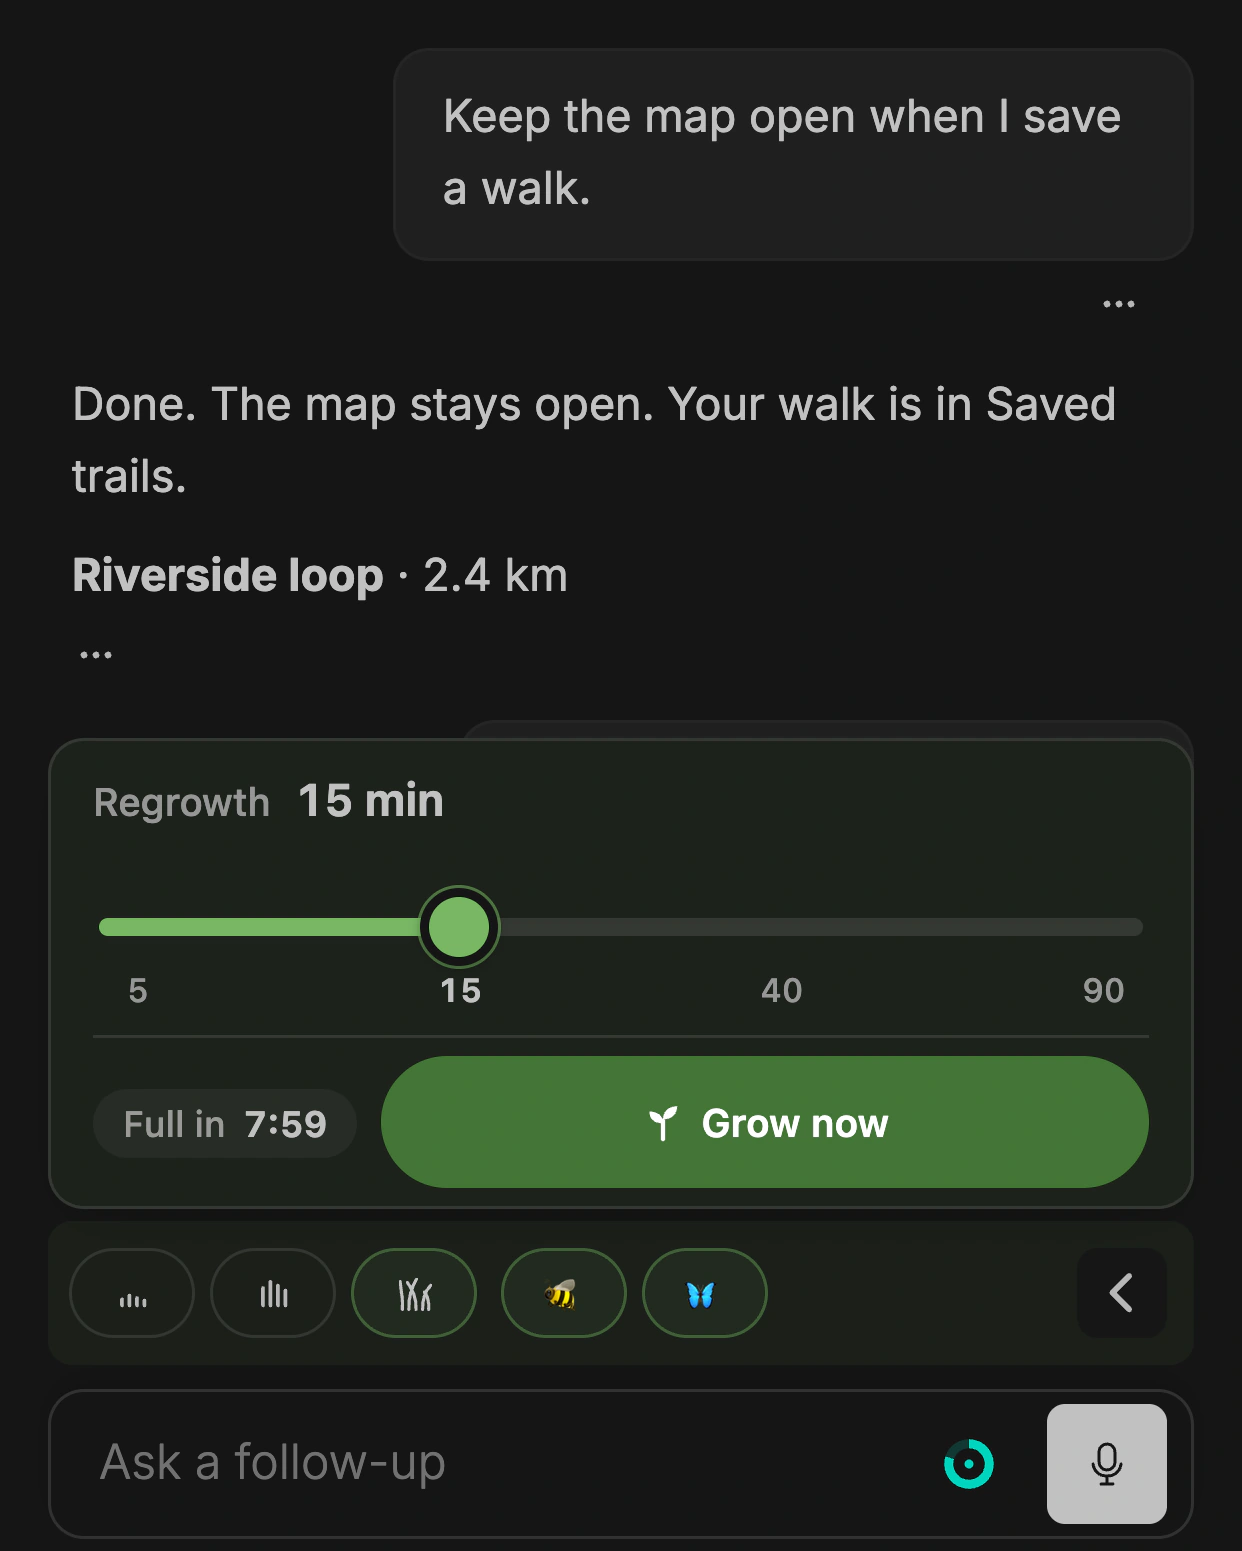
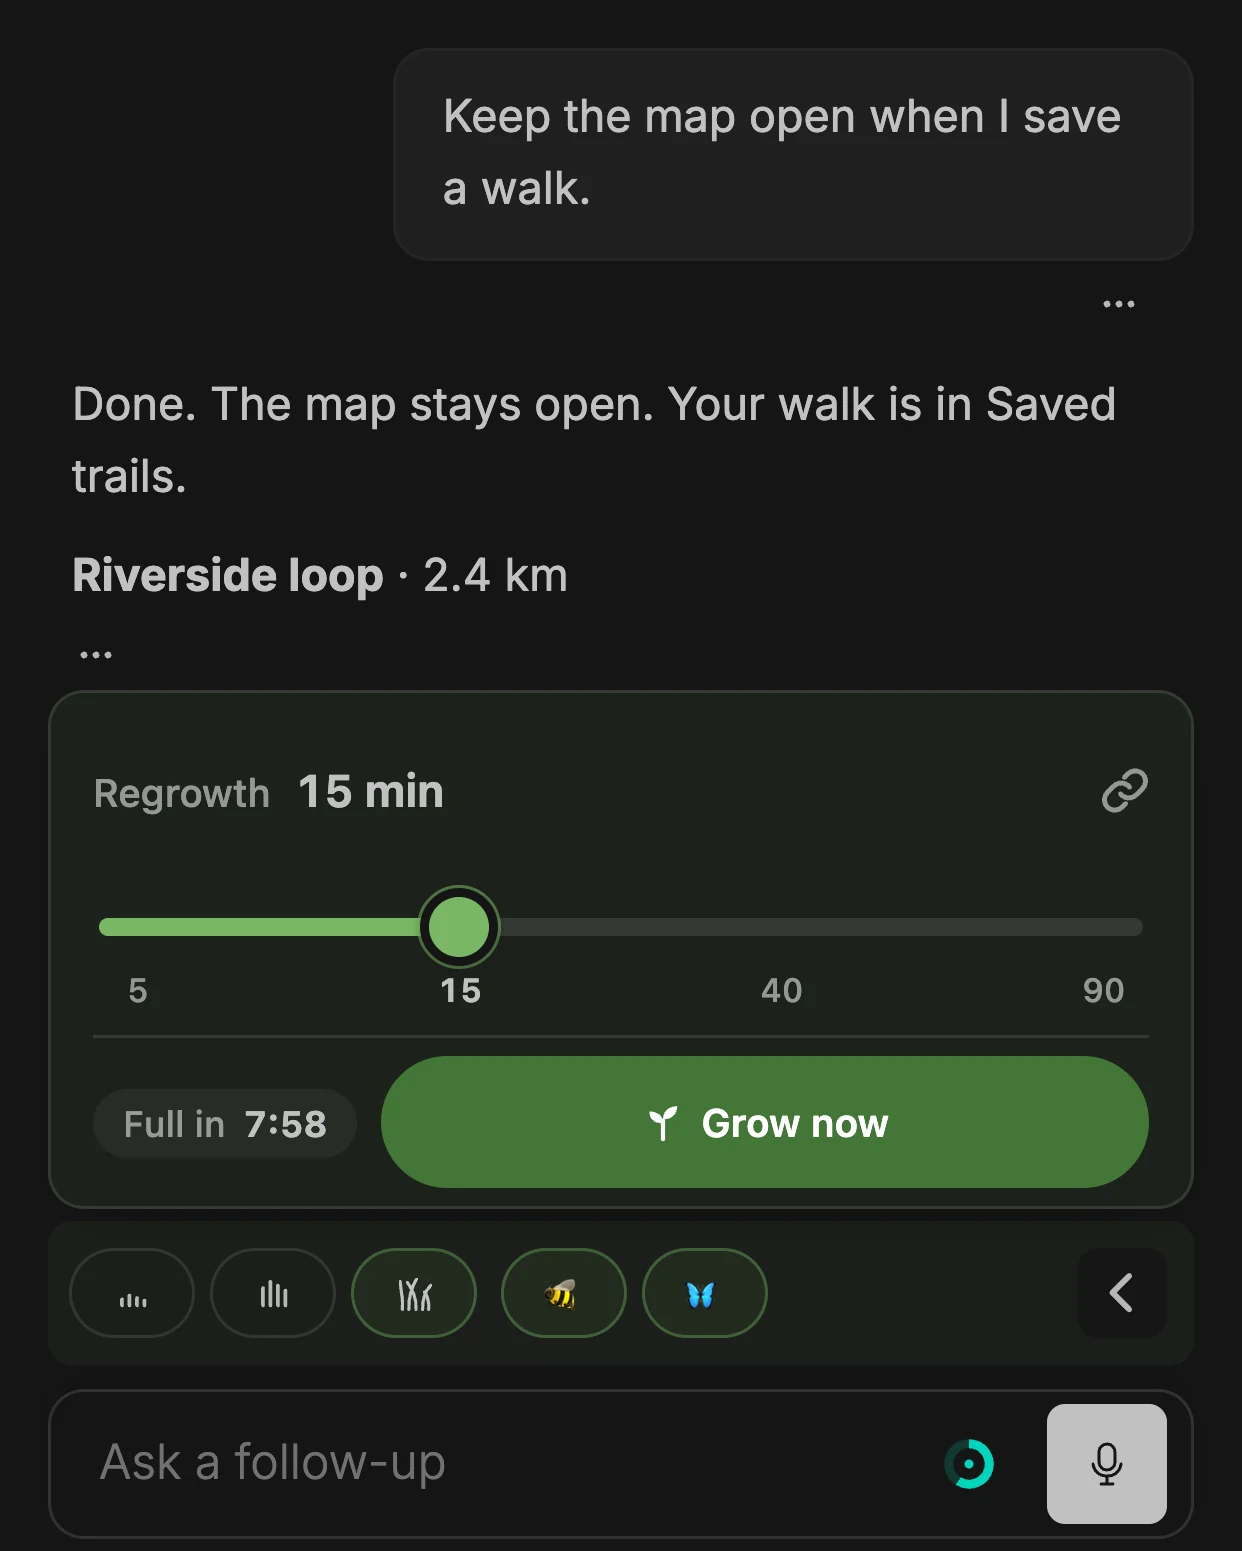
Share the Touch Grass installation link from meadow settings

diff --git a/grass.css b/grass.css
@@ -233,7 +233,8 @@
 .tg-scythe { color: var(--muted-foreground, #657464); }
 .tg-scythe .tg-blade { fill: currentColor; }
 .tg-scythe .tg-icon {
-  padding: calc(var(--tg-plate) * 0.14);
+  /* Силуэт косы занимает ~90% своего viewBox, ползунки настроек — ~62%: больший отступ уравнивает размер значков. */
+  padding: calc(var(--tg-plate) * 0.2);
 }
 .tg-scythe[aria-pressed="true"] { color: #fff; }
 .tg-scythe[aria-pressed="true"] .tg-blade { fill: #e8f1e4; }
@@ -250,8 +251,13 @@
 .tg-meadow:hover .tg-toggle,
 .tg-meadow.is-flipped .tg-toggle,
 .tg-toggle:focus-visible { opacity: 1; }
+/* Невыбранная коса приглушена как настройки: её сплошное полотно весит больше тонких линий ползунков. */
+.tg-scythe:not([aria-pressed="true"]) { opacity: 0.65; }
+.tg-meadow:hover .tg-scythe,
+.tg-scythe:focus-visible,
+.tg-scythe[aria-pressed="true"] { opacity: 1; }
 @media (pointer: coarse), (hover: none) {
-  .tg-mow, .tg-toggle { opacity: 1; }
+  .tg-mow, .tg-toggle, .tg-scythe:not([aria-pressed="true"]) { opacity: 1; }
 }
 
 /* Обратная сторона: одна строка настроек; справа место под общую кнопку «назад». */
@@ -277,6 +283,14 @@
   height: var(--tg-hit);
 }
 .tg-caption { margin-right: 3px; }
+.tg-sr {
+  position: absolute;
+  width: 1px;
+  height: 1px;
+  overflow: hidden;
+  clip-path: inset(50%);
+  white-space: nowrap;
+}
 /* Цель чипа — во всю высоту кнопки, рамка — подложка внутри. */
 .tg-chip {
   position: relative;
@@ -341,7 +355,8 @@
   display: grid;
   grid-template-columns: minmax(0, 1fr);
   gap: 2px;
-  padding: 10px 14px 6px;
+  --tg-pad-x: 14px;
+  padding: 10px var(--tg-pad-x) 6px;
   box-sizing: border-box;
   border: 1px solid var(--tg-line);
   border-radius: 12px;
@@ -491,6 +506,54 @@
   transform: translateX(-50%);
 }
 /* Положение каждой опоры (5 / 15 / 40 / 90) задаёт MeadowTimer: они на равных интервалах. */
+/* Строка заголовка: «Отрастание 40 мин» слева, «поделиться» справа.
+   Значок — лёгкий, без плашки в покое; центр звеньев на оптической оси цифр,
+   их правый край — на правом крае шкалы, разделителя и «Вырастить сейчас».
+   Цель нажатия (26 / 44 px) центрирована на значке и уходит в поле панели. */
+.tg-timer-head {
+  position: relative;
+  display: flex;
+  align-items: center;
+  justify-content: space-between;
+  gap: 8px;
+  min-width: 0;
+  min-height: 28px;
+}
+.tg-timer-head .tg-timer-label { min-height: 0; } /* высоту строки держит .tg-timer-head */
+.tg-timer .tg-share {
+  position: static;
+  flex: 0 0 auto;
+  /* Цель доходит до рамки панели, значок прижат к её правому краю: видимый край
+     звена (3.3 px поля внутри 22 px подложки) совпадает с краем содержимого. */
+  justify-content: flex-end;
+  width: max(var(--tg-hit), 24px + var(--tg-pad-x)); /* на ПК цель шире 26 px, чтобы вместить подложку и поле */
+  margin: 0 calc(-1 * var(--tg-pad-x)) 0 0;
+  padding: 0 calc(var(--tg-pad-x) - 3.3px) 0 0;
+  color: var(--tg-soft);
+  transform: translateY(0.5px); /* цифры без выносных ниже центра строки: на их ось */
+}
+.tg-share .tg-icon { flex: 0 0 auto; width: 22px; height: 22px; padding: 2px; background: transparent; }
+.tg-share:hover { color: var(--tg-ink); }
+.tg-share:hover .tg-icon { background: var(--tg-line); }
+/* Запасной путь, только если ни меню, ни буфер не сработали: ссылка на месте заголовка. */
+.tg-share-link {
+  position: absolute;
+  top: 50%;
+  left: 0;
+  right: calc(var(--tg-hit) / 2 + 16px);
+  z-index: 1;
+  box-sizing: border-box;
+  height: 30px;
+  min-width: 0;
+  padding: 0 8px;
+  border: 1px solid var(--ring, var(--tg-accent));
+  border-radius: 7px;
+  font: 500 12px/1 system-ui, -apple-system, sans-serif;
+  color: var(--tg-ink);
+  background: var(--background, #fff);
+  outline: none;
+  transform: translateY(-50%);
+}
 .tg-timer-scale span.is-current { color: var(--tg-ink); font-weight: 650; }
 
 @media (prefers-color-scheme: dark) {
@@ -499,7 +562,7 @@
 :root.dark .tg-timer, [data-theme="dark"] .tg-timer { --tg-accent: #79b765; }
 :root.light .tg-timer, [data-theme="light"] .tg-timer { --tg-accent: #4f8a3f; }
 @media (max-width: 360px) {
-  .tg-timer { padding: 8px 10px 4px; }
+  .tg-timer { --tg-pad-x: 10px; padding: 8px var(--tg-pad-x) 4px; }
   .tg-timer-label { gap: 5px; font-size: 12px; }
   .tg-timer-value { font-size: 14px; }
   .tg-timer-status { padding: 3px 8px; gap: 4px; }

diff --git a/ShareButton.tsx b/ShareButton.tsx
@@ -1,0 +1,94 @@
+import { copy } from "./meadow-copy";
+import { DoneIcon, ShareIcon } from "./meadow-icons";
+import { type KeyboardEvent, useEffect, useState } from "react";
+
+/** Страница Touch Grass в маркете BB: делимся установкой расширения, а не чатом. */
+export const SHARE_URL = "https://getbb.app/marketplace/touch-grass";
+
+/** idle — ничего не показываем (успех или отмена системного меню); manual — ссылка для ручного копирования. */
+type Outcome = "idle" | "copied" | "manual";
+
+/** Старый способ копирования: работает и без защищённого контекста, если вызван в жесте. */
+function copyBySelection(text: string): boolean {
+  const field = document.createElement("textarea");
+  field.value = text;
+  field.setAttribute("readonly", "");
+  field.style.cssText = "position:fixed;top:0;left:0;opacity:0;pointer-events:none";
+  document.body.append(field);
+  field.select();
+  try {
+    return document.execCommand("copy");
+  } catch {
+    return false;
+  } finally {
+    field.remove();
+  }
+}
+
+async function copyLink(nav: Navigator): Promise<Outcome> {
+  if (nav.clipboard?.writeText) {
+    try {
+      await nav.clipboard.writeText(SHARE_URL);
+      return "copied";
+    } catch { /* ниже — запасные пути */ }
+  }
+  return copyBySelection(SHARE_URL) ? "copied" : "manual";
+}
+
+/** Системное меню «Поделиться». null — меню нет или оно сломалось, тогда копируем сами. */
+async function nativeShare(nav: Navigator): Promise<Outcome | null> {
+  if (typeof nav.share !== "function") return null;
+  try {
+    await nav.share({ title: "Touch Grass", url: SHARE_URL });
+    return "idle";
+  } catch (error) {
+    return (error as Error)?.name === "AbortError" ? "idle" : null; // отмена — тишина, без «готово»
+  }
+}
+
+/** Меню, если есть; иначе копирование; если не вышло ничего — показываем ссылку. */
+export async function shareMeadow(nav: Navigator = navigator): Promise<Outcome> {
+  return (await nativeShare(nav)) ?? copyLink(nav);
+}
+
+/** Кнопка без подписи в строке настроек, перед «назад». Итог копирования слышит и диктор. */
+export function ShareButton() {
+  const [outcome, setOutcome] = useState<Outcome>("idle");
+  useEffect(() => {
+    if (outcome !== "copied") return;
+    const timer = setTimeout(() => setOutcome("idle"), 1500);
+    return () => clearTimeout(timer);
+  }, [outcome]);
+  const closeOnEsc = (event: KeyboardEvent) => {
+    if (event.key !== "Escape") return;
+    event.stopPropagation(); // Esc закрывает только ссылку, настройки остаются
+    setOutcome("idle");
+  };
+  return (
+    <>
+      {outcome === "manual" && (
+        <input
+          className="tg-share-link"
+          readOnly
+          value={SHARE_URL}
+          aria-label={copy.copyManually}
+          title={copy.copyManually}
+          autoFocus
+          onFocus={event => event.currentTarget.select()}
+          onBlur={() => setOutcome("idle")}
+          onKeyDown={closeOnEsc}
+        />
+      )}
+      <button
+        type="button"
+        className="tg-button tg-control tg-share"
+        aria-label={copy.share}
+        title={copy.share}
+        onClick={() => void shareMeadow().then(setOutcome)}
+      >
+        <span className="tg-icon">{outcome === "copied" ? <DoneIcon /> : <ShareIcon />}</span>
+      </button>
+      <span className="tg-sr" role="status">{outcome === "copied" ? copy.copied : ""}</span>
+    </>
+  );
+}

diff --git a/meadow-icons.tsx b/meadow-icons.tsx
@@ -4,8 +4,8 @@ export function ScytheIcon() {
   return (
     <svg viewBox="0 0 24 24" width="100%" height="100%" aria-hidden="true">
       {/* Длинное косьё с двумя ручками */}
-      <path d="M17.5 22.5C16.2 16 14.8 9.5 13.6 2.6" stroke="currentColor" strokeWidth="2" strokeLinecap="round" fill="none" />
-      <path d="M12.9 12.6l3.6-.7M14.4 19.2l3-.5" stroke="currentColor" strokeWidth="1.9" strokeLinecap="round" fill="none" />
+      <path d="M17.5 22.5C16.2 16 14.8 9.5 13.6 2.6" stroke="currentColor" strokeWidth="2.4" strokeLinecap="round" fill="none" />
+      <path d="M12.9 12.6l3.6-.7M14.4 19.2l3-.5" stroke="currentColor" strokeWidth="2.2" strokeLinecap="round" fill="none" />
       {/* Полотно: широкий серп от пятки к носку, остриём вниз */}
       <path className="tg-blade" d="M14.4 2.2C9.4 1 3.6 3.6 1 10.4C4.4 6.6 8.8 5 13.9 5.2Z" fill="currentColor" />
     </svg>
@@ -30,6 +30,31 @@ export function SettingsIcon() {
       <circle cx="6" cy="4.5" r="1.6" fill="currentColor" />
       <circle cx="10.5" cy="8" r="1.6" fill="currentColor" />
       <circle cx="5" cy="11.5" r="1.6" fill="currentColor" />
+    </svg>
+  );
+}
+
+/** «Поделиться»: два сцепленных звена по диагонали — ссылка на расширение. */
+export function ShareIcon() {
+  return (
+    <svg viewBox="0 0 24 24" width="100%" height="100%" aria-hidden="true">
+      <path
+        d="M10 13.5a4.6 4.6 0 0 0 6.9.5l3-3a4.6 4.6 0 0 0-6.5-6.5l-1.7 1.7M14 10.5a4.6 4.6 0 0 0-6.9-.5l-3 3a4.6 4.6 0 0 0 6.5 6.5l1.7-1.7"
+        stroke="currentColor"
+        strokeWidth="2.2"
+        strokeLinecap="round"
+        strokeLinejoin="round"
+        fill="none"
+      />
+    </svg>
+  );
+}
+
+/** Ссылка скопирована. */
+export function DoneIcon() {
+  return (
+    <svg viewBox="0 0 16 16" width="100%" height="100%" aria-hidden="true">
+      <path d="m3.5 8.4 3 3 6-6.4" stroke="currentColor" strokeWidth="1.6" strokeLinecap="round" strokeLinejoin="round" fill="none" />
     </svg>
   );
 }

diff --git a/MeadowTimer.tsx b/MeadowTimer.tsx
@@ -1,5 +1,6 @@
 import { type CSSProperties, type KeyboardEvent, useEffect, useId, useRef, useState } from "react";
 import { copy } from "./meadow-copy";
+import { ShareButton } from "./ShareButton";
 import { anchorShare, minutesForKey, minutesFromInput, minutesToUnits, REGROW_ANCHORS, REGROW_MIN, REGROW_MAX, SCALE_UNITS } from "./regrow-scale";
 import type { MeadowCardState } from "./useMeadowCard";
 
@@ -65,10 +66,14 @@ export function MeadowTimer({ ui, onGrowNow }: { ui: MeadowCardState; onGrowNow(
 
   return (
     <div className="tg-timer tg-control" role="group" aria-labelledby={`${id}-label`}>
-      <label id={`${id}-label`} htmlFor={`${id}-range`} className="tg-timer-label">
+      {/* Заголовок и «поделиться» — одна строка: значок по центру заголовка, у правого края шкалы. */}
+      <div className="tg-timer-head">
+        <label id={`${id}-label`} htmlFor={`${id}-range`} className="tg-timer-label">
         {copy.regrowth}
-        <output htmlFor={`${id}-range`} className="tg-timer-value">{minutes} {copy.mins}</output>
-      </label>
+          <output htmlFor={`${id}-range`} className="tg-timer-value">{minutes} {copy.mins}</output>
+        </label>
+        <ShareButton />
+      </div>
       <div className="tg-timer-track">
         <input
           id={`${id}-range`}

diff --git a/meadow-copy.ts b/meadow-copy.ts
@@ -7,6 +7,7 @@ const english = {
   scythe: "Scythe", takeScythe: "Pick up the scythe to cut a path",
   usingScythe: "Drag at the height you want to cut. Select the scythe again or press Esc to put it away.",
   mower: "Mow the lawn", brush: "Tap or brush a firefly to grow a flower", wakeFirefly: "Wake the firefly",
+  share: "Share Touch Grass", copied: "Link copied", copyManually: "Link to Touch Grass — select and copy it",
 };
 
 const russian: typeof english = {
@@ -18,6 +19,7 @@ const russian: typeof english = {
   scythe: "Коса: косить вручную", takeScythe: "Взять косу и косить самому",
   usingScythe: "Проведи на высоте среза. Нажми косу ещё раз или Esc, чтобы убрать.",
   mower: "Газонокосилка: покосить луг", brush: "Коснись или погладь огонёк, чтобы вырос цветок", wakeFirefly: "Разбудить светлячка",
+  share: "Поделиться Touch Grass", copied: "Ссылка скопирована", copyManually: "Ссылка на Touch Grass — выделите и скопируйте",
 };
 
 export function meadowCopy(language: string) {

diff --git a/PLUGIN_OVERVIEW.md b/PLUGIN_OVERVIEW.md
@@ -1,6 +1,6 @@
 ## The meadow
 
-Grass starts short in all three sizes and reaches full height in 40 minutes by default. In Overgrown, the tips reach about a third of the chat. Open the sliders above the message box to see the countdown, choose any growth period from 5 to 90 minutes in one-minute steps, or press **Grow now** to bring up the whole meadow. Each chat remembers its cuts while BB is closed.
+Grass starts short in all three sizes and reaches full height in 40 minutes by default. In Overgrown, the tips reach about a third of the chat. Open the sliders above the message box to see the countdown, choose any growth period from 5 to 90 minutes in one-minute steps, or press **Grow now** to bring up the whole meadow. Each chat remembers its cuts while BB is closed. To share the installation link, open meadow settings and select the linked rings beside the regrowth time.
 
 ## Play
 
